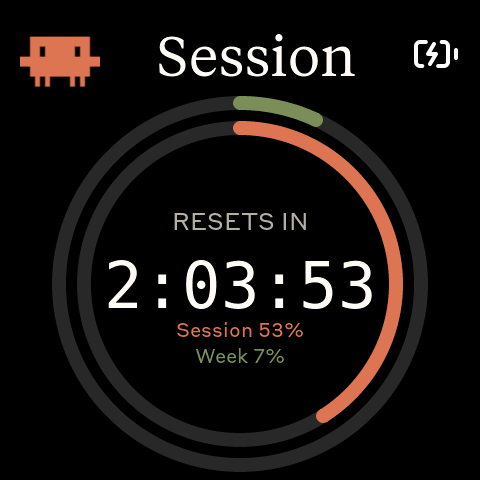
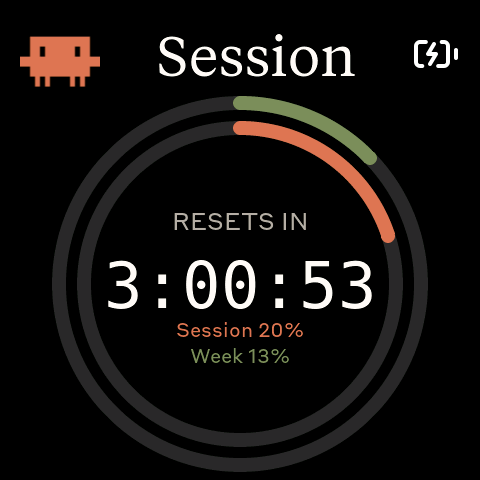
Drive the countdown session ring by utilization percent
The inner ring now fills by session usage % like the weekly ring,
instead of time remaining in the 5h window. Updates the dev-log
screenshot and ring description to match.

diff --git a/firmware/src/ui.cpp b/firmware/src/ui.cpp
@@ -57,9 +57,6 @@ static lv_obj_t* lbl_countdown_big;
 static lv_obj_t* lbl_countdown_pct;    // session utilization legend
 static lv_obj_t* lbl_countdown_week;   // weekly utilization legend
 
-// Session rate-limit window length — denominator for the progress ring.
-#define SESSION_WINDOW_MIN  300   // 5-hour unified window
-
 // Countdown state. countdown_target_ms is the lv_tick value at which the
 // session resets; the screen decrements locally each second between polls.
 static uint32_t countdown_target_ms = 0;
@@ -477,6 +474,9 @@ void ui_update(const UsageData* data) {
 
     lv_label_set_text_fmt(lbl_countdown_pct, "Session %d%%", s_pct);
     lv_label_set_text_fmt(lbl_countdown_week, "Week %d%%", w_pct);
+    int sess_v = s_pct * 10;
+    if (sess_v > 1000) sess_v = 1000;
+    lv_arc_set_value(countdown_arc, sess_v);
     int week_v = w_pct * 10;
     if (week_v > 1000) week_v = 1000;
     lv_arc_set_value(countdown_week_arc, week_v);
@@ -533,7 +533,6 @@ void ui_tick_countdown(void) {
 
     if (remaining_sec < 0) {
         lv_label_set_text(lbl_countdown_big, "-:--:--");
-        lv_arc_set_value(countdown_arc, 0);
         return;
     }
 
@@ -541,11 +540,6 @@ void ui_tick_countdown(void) {
     int m = (remaining_sec % 3600) / 60;
     int s = remaining_sec % 60;
     lv_label_set_text_fmt(lbl_countdown_big, "%d:%02d:%02d", h, m, s);
-
-    int total = SESSION_WINDOW_MIN * 60;
-    int v = (int)((int64_t)remaining_sec * 1000 / total);
-    if (v > 1000) v = 1000;
-    lv_arc_set_value(countdown_arc, v);
 }
 
 void ui_tick_clock(void) {